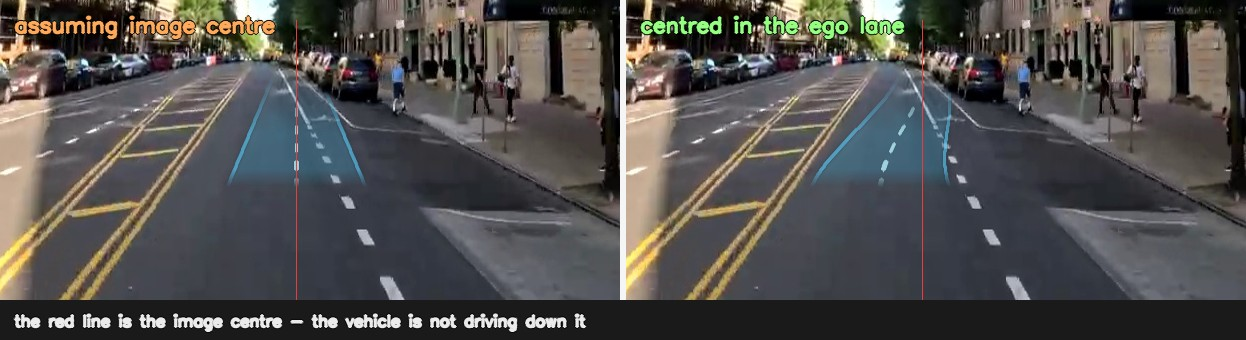
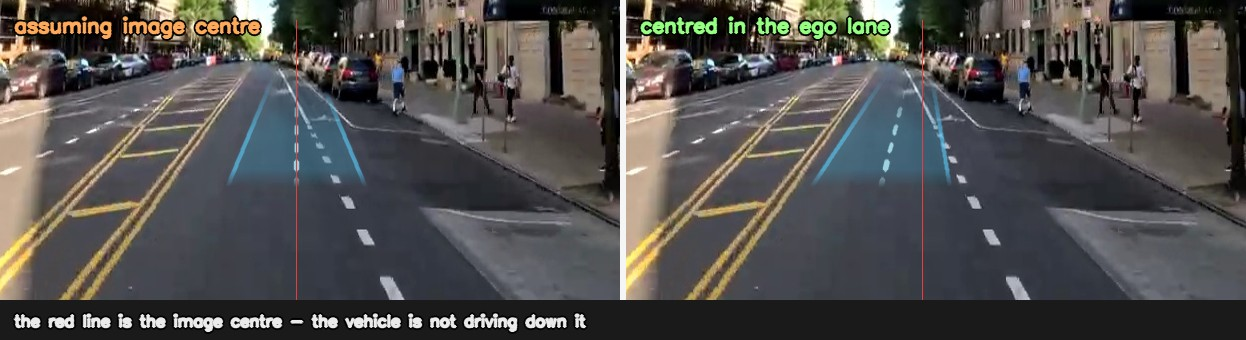
Fix the ribbon's perspective geometry and decouple opacity from colour
Geometry: the ribbon was drifting out of the ego lane toward the middle of the
road. Two compounding errors, both introduced by the earlier "aim the far end at
the vanishing point" change:

  * it reached the vanishing column at the ribbon's FAR END rather than at the
    horizon. A straight ground line only converges at the horizon, and the ribbon
    stops well short of it, so the far end must still retain part of the near-end
    lane offset - about a third of it at the current row extents. Collapsing it
    early pulled the far end ~31 px toward the image centre.
  * it interpolated with a smoothstep over row index, which is not a straight
    line in image space and bowed the ribbon by up to ~31 px mid-span.

The centreline is now the exact image of a straight ground line: offset from the
vanishing column scales with (v - HORIZON_V) via perspective_profile(). Verified
it is straight to 0.000 px and extrapolates to VANISH_U exactly at the horizon.
The VO turn blend uses the same baseline.

Opacity: every layer's alpha came from cvtColor(layer, BGR2GRAY), i.e. the fill
colour's luminance, so opacity was coupled to the colour choice. BODY_ALPHA 0.42
rendered at 0.28; the rails and the dashed centre line rendered at 0.64 and 0.82
while sharing one MARKS_ALPHA they disagreed on; and blurred edges faded toward
black instead of toward transparent. Alpha now comes from real coverage masks with
the flat colour supplied separately, and the rails and dashes have their own
[…]

diff --git a/final_preview_renderer.py b/final_preview_renderer.py
@@ -315,8 +315,14 @@ BODY_BLUR = 15
 
 # Opacity ramps, measured in image rows from the ribbon's own near / far ends,
 # so they adapt to however tall the projected ribbon turns out to be.
-BODY_ALPHA = 0.42
-MARKS_ALPHA = 0.95
+# These are TRUE opacities: alpha comes from a coverage mask, so changing
+# ROAD_PATH_COLOUR no longer changes how transparent the ribbon is. The values are
+# the ones the old luminance-derived path happened to render, so the look is
+# unchanged - they are simply honest now, and the rails and the dashed centre line
+# get their own constants instead of sharing one that they silently disagreed on.
+BODY_ALPHA = 0.28
+RAILS_ALPHA = 0.64
+DASH_ALPHA = 0.82
 FADE_IN_PX = 16.0
 FADE_OUT_PX = 55.0
 
@@ -755,10 +761,22 @@ def resolve_lane_center(lane_data, height, width, lane_state):
     return {"near_u": near_u, "far_u": far_u, "confidence": conf}
 
 
-def _ease_profile(rows):
-    """Smoothstep 0..1 over the ribbon's rows (near end -> far end)."""
-    s = np.arange(rows + 1, dtype=np.float32) / max(1.0, float(rows))
-    return s * s * (3.0 - 2.0 * s)
+def perspective_profile(rows, near_v):
+    """Fraction of the near-end lateral offset that survives at each ribbon row.
+
+    A straight line on the ground images as a STRAIGHT line in the picture that
+    converges on the vanishing point, so its horizontal offset from the vanishing
+    column shrinks in exact proportion to (v - HORIZON_V) - reaching zero only at
+    the horizon, not at the ribbon's far end.
+
+    Interpolating with a smoothstep over row index instead (what this used to do)
+    made the ribbon both bend and converge far too early: with the near end one
+    lane to the left, the far end landed ~31 px too far toward the image centre
+    and the middle of the ribbon bowed ~15 px, which reads as the path drifting
+    out of the ego lane into the next one.
+    """
+    vs = near_v - np.arange(rows + 1, dtype=np.float32)
+    return (vs - HORIZON_V) / max(1e-6, float(near_v - HORIZON_V))
 
 
 def project_vo_centerline(vo_pts):
@@ -834,10 +852,13 @@ def aimed_ribbon_geometry(road_mask, height, width, aim_state, lookahead_offset=
             mid = float(np.median(central))
 
     # The lane detection supplies only the near-field lateral placement (which lane
-    # the car is in). The far end aims at the vanishing point: a straight path in
-    # the ego lane converges to the VP, so this keeps the ribbon pointing straight
-    # down the lane. Steering the far end with the noisy far-lane column instead
-    # tilted the ribbon off the real path (it pointed where the car was not going).
+    # the car is in). The ribbon then runs as the straight ground line through that
+    # point, which converges on the VANISHING COLUMN at the horizon - note "at the
+    # horizon", not at the ribbon's far end: the ribbon stops well short of the
+    # horizon, so its far end keeps part of the near-end offset. Collapsing it onto
+    # the vanishing column at the far end instead swung the ribbon out of the ego
+    # lane toward the middle of the road. Steering the far end from the noisy
+    # far-lane column had the same effect, for a different reason.
     # Genuine curvature comes from the VO blend below, only on a confident turn.
     near_anchor = float(lane_center["near_u"]) if lane_center else float(VANISH_U)
     far_anchor = float(VANISH_U)
@@ -873,7 +894,7 @@ def aimed_ribbon_geometry(road_mask, height, width, aim_state, lookahead_offset=
             vo_vs, vo_us = projected
             covered = (row_grid >= vo_vs[0]) & (row_grid <= vo_vs[-1])
             if covered.any() and float(np.interp(near_v, vo_vs, vo_us)) is not None:
-                straight = near_u + (far_u - near_u) * _ease_profile(rows)
+                straight = far_u + (near_u - far_u) * perspective_profile(rows, near_v)
                 vo_curve = np.interp(row_grid, vo_vs, vo_us).astype(np.float32)
                 vo_curve = vo_curve + (near_u - float(np.interp(near_v, vo_vs, vo_us)))
                 offsets = (vo_curve - straight) * covered.astype(np.float32)
@@ -903,14 +924,17 @@ def aimed_ribbon_geometry(road_mask, height, width, aim_state, lookahead_offset=
             applied = prev_applied + delta
         vo_state["applied"] = applied
 
+    # far_u is the column the path converges on AT THE HORIZON, so the ribbon is the
+    # straight ground line through the lane anchor: offset from that column decays
+    # in proportion to (v - HORIZON_V) and is still partly present at the far end.
+    profile = perspective_profile(rows, near_v)
+
     centre = []
     left = []
     right = []
     for i in range(rows + 1):
         v = near_v - i
-        s = i / max(1.0, float(rows))
-        ease = s * s * (3.0 - 2.0 * s)
-        cu = near_u + (far_u - near_u) * ease + float(applied[i])
+        cu = far_u + (near_u - far_u) * float(profile[i]) + float(applied[i])
         half = RIBBON_HALF_M * (v - HORIZON_V) / CAM_HEIGHT_M
         centre.append((cu, v))
         left.append((cu - half, v))
@@ -947,7 +971,7 @@ def row_alpha_profile(height, near_v, far_v):
     return np.minimum(near_ramp, far_ramp)
 
 
-def draw_world_dashes(layer, traj):
+def draw_world_dashes(layer, traj, colour=255):
     """Paint a dashed centre line whose dashes are spaced in world metres.
 
     Because each dash spans a fixed world distance, the projected dashes compress
@@ -976,11 +1000,11 @@ def draw_world_dashes(layer, traj):
         thickness = int(clamp(round((mid_v - HORIZON_V) * 0.02), 1, 5))
 
         arr = np.round(np.array(points, dtype=np.float32)).astype(np.int32)
-        cv2.polylines(layer, [arr], False, ROAD_PATH_CORE_COLOUR, thickness, cv2.LINE_AA)
+        cv2.polylines(layer, [arr], False, colour, thickness, cv2.LINE_AA)
 
 
-def draw_centerline_dashes(layer, centre_arr):
-    """Dashed centre line for the road-aimed ribbon (image-space, per centre point)."""
+def draw_centerline_dashes(layer, centre_arr, colour=255):
+    """Dashed centre line for the per-frame ribbon (image-space, per centre point)."""
     period = 16
     fill = 8
     n = len(centre_arr)
@@ -991,7 +1015,7 @@ def draw_centerline_dashes(layer, centre_arr):
             mid_v = seg[len(seg) // 2][1]
             thickness = int(clamp(round((mid_v - HORIZON_V) * 0.02), 1, 5))
             cv2.polylines(layer, [np.round(seg).astype(np.int32)], False,
-                          ROAD_PATH_CORE_COLOUR, thickness, cv2.LINE_AA)
+                          colour, thickness, cv2.LINE_AA)
         i += period
 
 
@@ -1020,36 +1044,44 @@ def build_path_overlay(geometry, height, width):
     shadow_blur = CONTACT_SHADOW_BLUR | 1
     shadow_cov = cv2.GaussianBlur(shadow_cov, (shadow_blur, shadow_blur), 0)
 
-    # Soft matte body.
-    body = np.zeros((height, width, 3), dtype=np.uint8)
-    cv2.fillPoly(body, [geometry["polygon"]], ROAD_PATH_COLOUR)
+    # Every layer's alpha comes from a real COVERAGE mask, never from the fill
+    # colour's luminance. Deriving alpha from luminance (what this used to do) tied
+    # opacity to the colour choice - BODY_ALPHA 0.42 actually rendered at 0.28, the
+    # rails and the dashed centre line landed at 0.64 and 0.82 while sharing one
+    # constant, and blurred edges faded toward black instead of toward transparent.
+    body_cov = np.zeros((height, width), dtype=np.uint8)
+    cv2.fillPoly(body_cov, [geometry["polygon"]], 255)
     body_blur = BODY_BLUR | 1
-    body = cv2.GaussianBlur(body, (body_blur, body_blur), 0)
+    body_cov = cv2.GaussianBlur(body_cov, (body_blur, body_blur), 0)
 
-    # Crisp rails plus the world-spaced dashed centre line.
-    marks = np.zeros((height, width, 3), dtype=np.uint8)
+    rails_cov = np.zeros((height, width), dtype=np.uint8)
     left = np.round(geometry["left"]).astype(np.int32)
     right = np.round(geometry["right"]).astype(np.int32)
-    cv2.polylines(marks, [left], False, ROAD_PATH_COLOUR, 2, cv2.LINE_AA)
-    cv2.polylines(marks, [right], False, ROAD_PATH_COLOUR, 2, cv2.LINE_AA)
+    cv2.polylines(rails_cov, [left], False, 255, 2, cv2.LINE_AA)
+    cv2.polylines(rails_cov, [right], False, 255, 2, cv2.LINE_AA)
+
+    dash_cov = np.zeros((height, width), dtype=np.uint8)
     if geometry.get("traj") is not None:
-        draw_world_dashes(marks, geometry["traj"])
+        draw_world_dashes(dash_cov, geometry["traj"], colour=255)
     else:
-        draw_centerline_dashes(marks, geometry["centre"])
+        draw_centerline_dashes(dash_cov, geometry["centre"], colour=255)
 
     a_shadow = (shadow_cov.astype(np.float32) / 255.0) * profile_col * CONTACT_SHADOW_ALPHA
-    a_body = (
-        cv2.cvtColor(body, cv2.COLOR_BGR2GRAY).astype(np.float32) / 255.0
-    ) * profile_col * BODY_ALPHA
-    a_marks = (
-        cv2.cvtColor(marks, cv2.COLOR_BGR2GRAY).astype(np.float32) / 255.0
-    ) * profile_col * MARKS_ALPHA
+    a_body = (body_cov.astype(np.float32) / 255.0) * profile_col * BODY_ALPHA
+    a_rails = (rails_cov.astype(np.float32) / 255.0) * profile_col * RAILS_ALPHA
+    a_dashes = (dash_cov.astype(np.float32) / 255.0) * profile_col * DASH_ALPHA
+
+    def flat(colour):
+        layer = np.empty((height, width, 3), dtype=np.float32)
+        layer[:, :] = colour
+        return layer
 
     black = np.zeros((height, width, 3), dtype=np.float32)
     layers = [
         (black, a_shadow),
-        (body.astype(np.float32), a_body),
-        (marks.astype(np.float32), a_marks),
+        (flat(ROAD_PATH_COLOUR), a_body),
+        (flat(ROAD_PATH_COLOUR), a_rails),
+        (flat(ROAD_PATH_CORE_COLOUR), a_dashes),
     ]
 
     premul = np.zeros((height, width, 3), dtype=np.float32)

diff --git a/README.md b/README.md
@@ -139,7 +139,7 @@ where the vehicle is **not** going is worse than no overlay at all.
 | Aspect | Source | Notes |
 |---|---|---|
 | **Lateral placement** (near end) | Lane instances (UFLDv2) | Which lane the vehicle is in. Gated on a plausible lane width and on detection confidence; falls back to straight when unsure. |
-| **Direction** (far end) | The vanishing point | A straight path in the ego lane converges there. Earlier versions steered the far end from the road-mask centroid, and then from the lane detector's noisy far column — **both tilted the ribbon off the real path**. Do not reintroduce either. |
+| **Direction** | The vanishing point, at the horizon | The ribbon is the exact image of a straight ground line: its offset from the vanishing column shrinks in proportion to `(v - HORIZON_V)`, reaching zero only **at the horizon**. Because the ribbon stops short of the horizon, its far end still holds part of the near-end offset. Collapsing it onto the vanishing column at the ribbon's far end instead — or easing between the two with a smoothstep — bends the ribbon out of the ego lane toward the middle of the road. Steering the far end from the road-mask centroid or the lane detector's noisy far column had the same effect for different reasons. Do not reintroduce any of these. |
 | **Curvature** | Future-frame visual odometry only | Blended in only while a genuine turn is detected. Measured separation: straight roads stay under ~2.5 m of in-window lateral spread, real turns run 4–6 m. |
 | **Stability** | EMA + per-frame rate limits | The near anchor and the VO contribution are each capped at 2.5 px/frame, so one bad detection cannot jerk the ribbon. |
 
@@ -295,9 +295,9 @@ state on each run.
 - **Visual odometry is monocular and planar.** It assumes flat ground and the
   configured calibration; it estimates path *shape* well, not survey-grade motion.
 - **Calibration is per-camera.** The defaults are tuned for one 1280×720 dashcam;
-  re-tune with `--calibrate` for other footage or the ribbon will sit wrong.
-- **Ribbon opacity is approximate.** Layer alpha is currently scaled by fill-colour
-  luminance, so effective opacity does not exactly match the configured constants.
+  re-tune with `--calibrate` for other footage or the ribbon will sit wrong. In
+  particular the ribbon's direction is only correct if `VANISH_U` / `HORIZON_V`
+  really are the road's vanishing point for your camera.
 
 ## Licence
 
